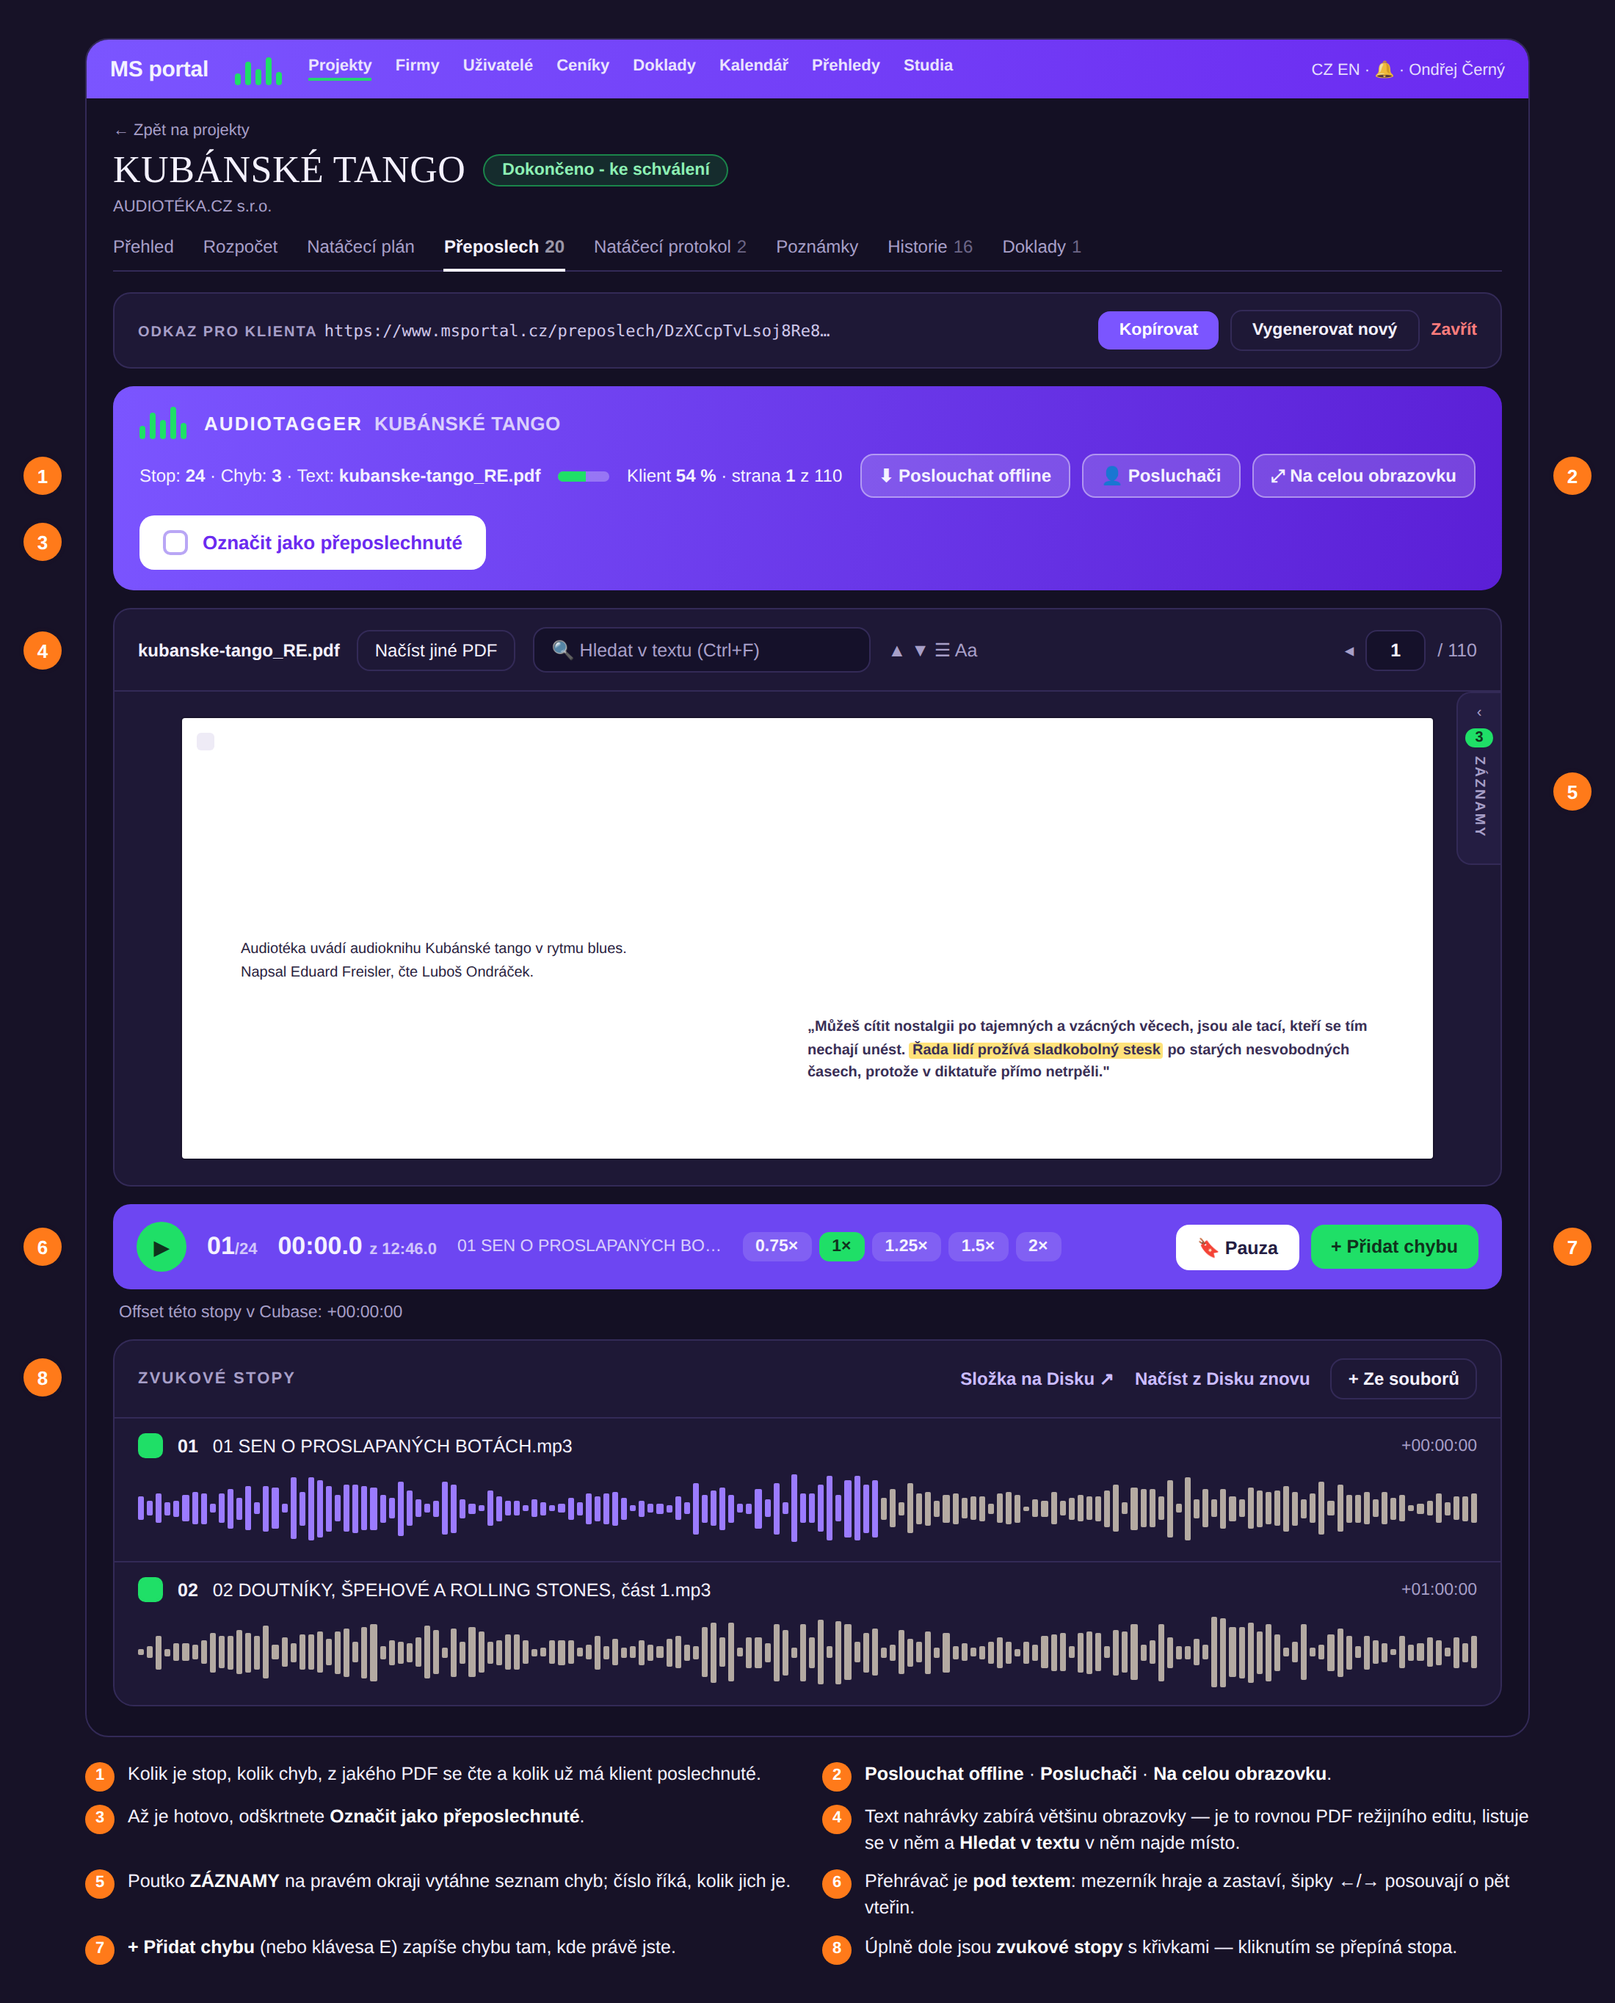
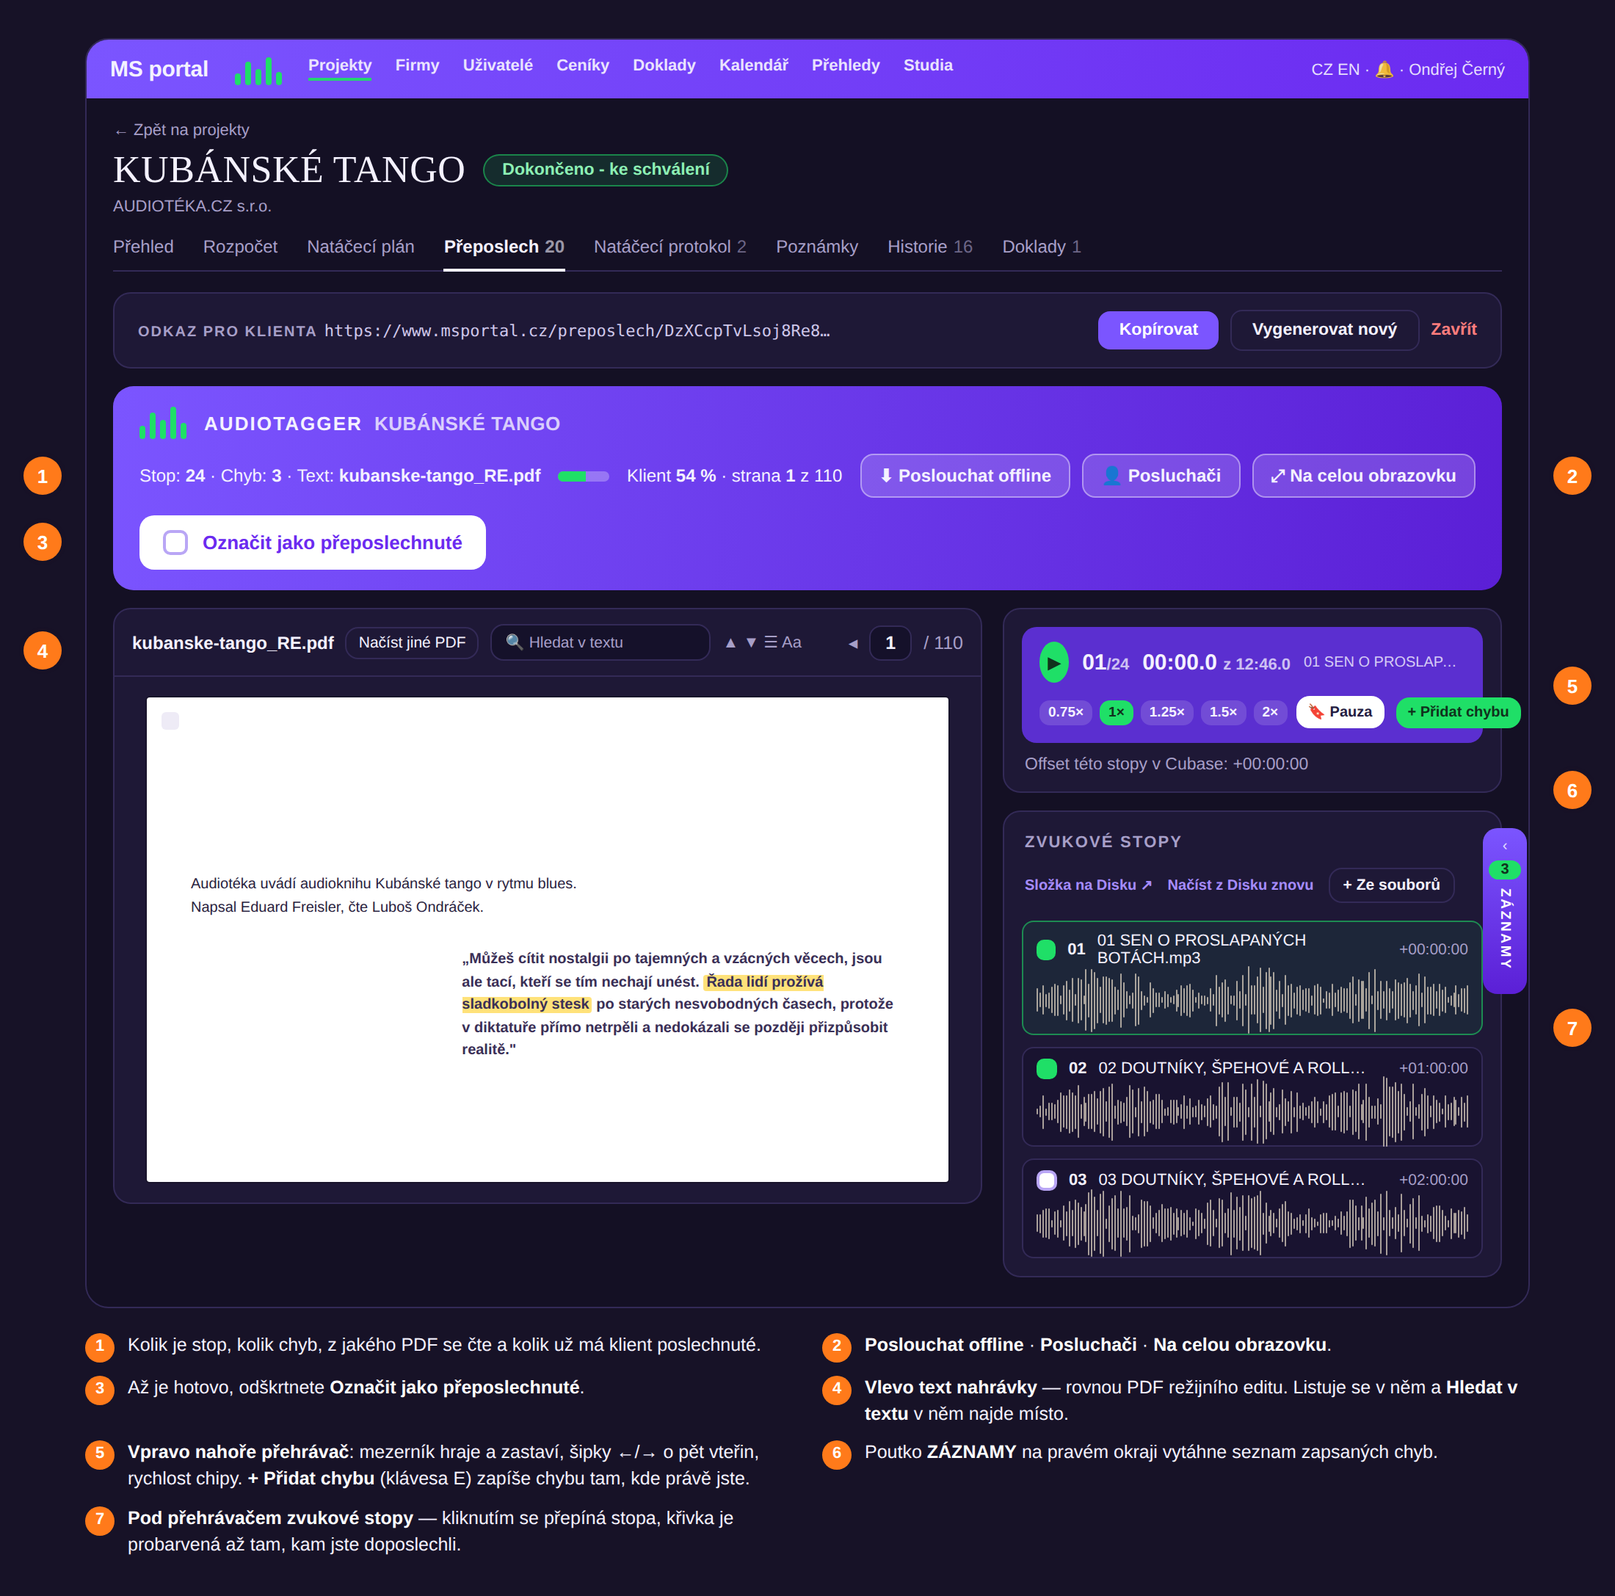
Obrazek preposlechu ma spravne dva sloupce
Zadani: "takhle ale ten audiotagger u audioknih nevypada".

Predchozi obrazek jsem kreslil podle okna, ktere bylo uzsi nez 1280 px (v Chromu byl otevreny bocni panel), takze se preposlech srovnal do jednoho sloupce. Na normalni sirce je mrizka dvousloupcova - viz Preposlech.tsx: grid-cols-1 xl:grid-cols-[minmax(0,1fr)_minmax(0,520px)].

Obrazek to ted ma spravne: VLEVO text (PDF rezijniho editu s listou a hledanim), VPRAVO nahore prehravac (displej, rychlosti, Pauza, + Pridat chybu, offset do Cubase) a pod nim karta ZVUKOVE STOPY s radky stop a krivkami; poutko ZAZNAMY na pravem okraji mrizky. Srovnany i popisky a uvodni veta obou navodu - i ta o "shora dolu" byla spatne.

Claude-Session: https://claude.ai/code/session_017ML6xEszibR659nh5zZn5o

diff --git a/scripts/navody/audiotagger.html b/scripts/navody/audiotagger.html
@@ -54,6 +54,30 @@ body{margin:0;background:var(--bg);font-family:"Helvetica Neue",Helvetica,Arial,
 .poutko2 span{display:block;background:var(--green);color:#10321d;font-weight:800;font-size:10px;border-radius:999px;padding:1px 0;margin:0 5px 6px}
 .poutko2 b{writing-mode:vertical-rl;font-size:9.5px;letter-spacing:.14em;color:var(--muted);font-weight:700}
 
+
+/* dva sloupce: vlevo text, vpravo prehravac a stopy (oprava 24. 9. 2026) */
+.mrizka{display:grid;grid-template-columns:minmax(0,1fr) 340px;gap:14px;align-items:start;margin-top:12px;position:relative}
+.sloupecP{display:flex;flex-direction:column;gap:12px}
+.prehravacKarta{background:var(--panel);border:1px solid var(--line);border-radius:12px;padding:12px}
+.displej{background:#5B2FD0;border-radius:10px;padding:10px 12px}
+.displej .radaA{display:flex;align-items:center;gap:9px;white-space:nowrap}
+.displej .radaB{display:flex;align-items:center;gap:6px;margin-top:9px;padding-right:26px;white-space:nowrap}
+.displej .radaB .rychlosti span{font-size:9.5px;padding:3px 6px}
+.stopyKarta{background:var(--panel);border:1px solid var(--line);border-radius:12px;overflow:hidden}
+.stopyKarta .hlava{padding:11px 14px 0}
+.stopyKarta .hlava b{font-size:11px;letter-spacing:.1em;color:var(--muted)}
+.stopyKarta .akceR{display:flex;align-items:center;gap:10px;padding:9px 14px 12px;font-size:10px;font-weight:700;color:#a68cff;white-space:nowrap}
+.radekStopy{margin:0 12px 8px;border:1px solid var(--line);border-radius:8px;background:#191330;padding:7px 9px}
+.radekStopy.akt{border-color:rgba(31,223,103,.55);background:rgba(31,223,103,.07)}
+.radekStopy .h2{display:flex;align-items:center;gap:8px;font-size:11px}
+.radekStopy .h2 .off2{margin-left:auto;color:var(--muted);font-variant-numeric:tabular-nums;font-size:10.5px}
+.krivka2{height:32px;margin-top:6px;display:flex;align-items:center;gap:1px}
+.krivka2 i{flex:1;background:var(--vlna);opacity:.75;border-radius:1px}
+.poutko3{position:absolute;right:-17px;top:150px;background:linear-gradient(180deg,#7B55FF,#5B1FD6);border-radius:10px;width:30px;padding:7px 0 11px;text-align:center;z-index:5}
+.poutko3 em{display:block;font-style:normal;color:rgba(255,255,255,.8);font-size:10px;margin-bottom:4px}
+.poutko3 span{display:block;background:var(--green);color:#10321d;font-weight:800;font-size:10px;border-radius:999px;padding:1px 0;margin:0 4px 6px}
+.poutko3 b{writing-mode:vertical-rl;font-size:9.5px;letter-spacing:.14em;color:#fff;font-weight:700}
+
 /* hlavicka AudioTaggeru */
 .lista{background:linear-gradient(100deg,#7B55FF,#5B1FD6);border-radius:14px;padding:14px 18px}
 .lista .radek1{display:flex;align-items:center;gap:12px}
@@ -73,6 +97,10 @@ body{margin:0;background:var(--bg);font-family:"Helvetica Neue",Helvetica,Arial,
 
 /* PDF cast */
 .pdfl{display:flex;align-items:center;gap:12px;padding:12px 16px;border-bottom:1px solid var(--line);font-size:12.5px}
+.pdfkarta .pdfl{gap:8px;padding:10px 12px;font-size:11px;flex-wrap:nowrap;white-space:nowrap}
+.pdfkarta .pdfl .tlacitko{padding:4px 8px;font-size:10.5px}
+.pdfkarta .pdfl .hledani{padding:5px 9px;font-size:10.5px}
+.pdfkarta .pdfl .strana .pole{padding:4px 10px}
 .hledani{display:flex;align-items:center;gap:6px;background:#15112a;border:1px solid var(--line);border-radius:9px;padding:7px 12px;color:var(--muted);min-width:230px}
 .tlacitko{border:1px solid var(--line);border-radius:9px;padding:6px 11px;font-size:12px;color:var(--ink)}
 .strana{display:flex;align-items:center;gap:8px;margin-left:auto;color:var(--muted);font-size:12.5px}
@@ -193,52 +221,70 @@ body{margin:0;background:var(--bg);font-family:"Helvetica Neue",Helvetica,Arial,
         <div class="presl"><span class="ctverec"></span>Označit jako přeposlechnuté</div>
       </div>
 
-      <div class="pdfkarta">
-        <div class="pdfl">
-          <b style="font-size:12px">kubanske-tango_RE.pdf</b>
-          <span class="tlacitko">Načíst jiné PDF</span>
-          <span class="hledani">🔍 Hledat v textu (Ctrl+F)</span>
-          <span class="muted">▲ ▼ ☰ Aa</span>
-          <span class="strana">◂ <span class="pole">1</span> / 110</span>
-        </div>
-        <div class="papirvelky">
-          <span class="rohcislo"></span>
-          <div class="sloupec">
-            Audiotéka uvádí audioknihu Kubánské tango v rytmu blues.<br>
-            Napsal Eduard Freisler, čte Luboš Ondráček.
-            <div class="vpravo3" style="margin-top:22px">
-              „Můžeš cítit nostalgii po tajemných a vzácných věcech, jsou ale tací, kteří se tím nechají unést.
-              <span style="background:#ffe27a;border-radius:2px;padding:0 2px">Řada lidí prožívá sladkobolný stesk</span>
-              po starých nesvobodných časech, protože v diktatuře přímo netrpěli."
+      <div class="mrizka">
+        <!-- VLEVO: text nahravky -->
+        <div class="pdfkarta" style="margin-top:0">
+          <div class="pdfl">
+            <b style="font-size:12px">kubanske-tango_RE.pdf</b>
+            <span class="tlacitko">Načíst jiné PDF</span>
+            <span class="hledani" style="min-width:150px">🔍 Hledat v textu</span>
+            <span class="muted">▲ ▼ ☰ Aa</span>
+            <span class="strana">◂ <span class="pole">1</span> / 110</span>
+          </div>
+          <div class="papirvelky" style="margin:14px 22px;height:330px;padding:26px 30px">
+            <span class="rohcislo"></span>
+            <div class="sloupec" style="top:120px;left:30px;right:30px">
+              Audiotéka uvádí audioknihu Kubánské tango v rytmu blues.<br>
+              Napsal Eduard Freisler, čte Luboš Ondráček.
+              <div class="vpravo3" style="margin-top:20px;margin-left:38%">
+                „Můžeš cítit nostalgii po tajemných a vzácných věcech, jsou ale tací, kteří se tím nechají unést.
+                <span style="background:#ffe27a;border-radius:2px;padding:0 2px">Řada lidí prožívá sladkobolný stesk</span>
+                po starých nesvobodných časech, protože v diktatuře přímo netrpěli a nedokázali se později přizpůsobit realitě."
+              </div>
             </div>
           </div>
         </div>
-        <div class="poutko2"><em>‹</em><span>3</span><b>ZÁZNAMY</b></div>
-      </div>
 
-      <div class="prehravac" style="margin-top:12px">
-        <span class="play">▶</span>
-        <span class="stopa">01<small>/24</small></span>
-        <span class="cas">00:00.0 <small>z 12:46.0</small></span>
-        <span class="nazevstopy">01 SEN O PROSLAPANÝCH BO…</span>
-        <span class="rychlosti"><span>0.75×</span><span class="on">1×</span><span>1.25×</span><span>1.5×</span><span>2×</span></span>
-        <span class="vpravo"><span class="btnb">🔖 Pauza</span><span class="btng">+ Přidat chybu</span></span>
-      </div>
-      <p class="offset">Offset této stopy v Cubase: +00:00:00</p>
+        <!-- VPRAVO: prehravac a zvukove stopy -->
+        <div class="sloupecP">
+          <div class="prehravacKarta">
+            <div class="displej">
+              <div class="radaA">
+                <span class="play" style="width:28px;height:28px;font-size:11px">▶</span>
+                <span class="stopa" style="font-size:15px">01<small>/24</small></span>
+                <span class="cas" style="font-size:15px">00:00.0 <small>z 12:46.0</small></span>
+                <span class="nazevstopy" style="max-width:110px;font-size:10px">01 SEN O PROSLAPANÝCH BO…</span>
+              </div>
+              <div class="radaB">
+                <span class="rychlosti"><span>0.75×</span><span class="on">1×</span><span>1.25×</span><span>1.5×</span><span>2×</span></span>
+                <span class="vpravo"><span class="btnb" style="padding:5px 8px;font-size:10px">🔖 Pauza</span><span class="btng" style="padding:5px 8px;font-size:10px">+ Přidat chybu</span></span>
+              </div>
+            </div>
+            <p class="offset" style="margin:9px 0 0 2px">Offset této stopy v Cubase: +00:00:00</p>
+          </div>
 
-      <div class="karta" style="margin-top:12px">
-        <div class="hlavastop">
-          <b style="font-size:11px;letter-spacing:.1em;color:var(--muted)">ZVUKOVÉ STOPY</b>
-          <span class="akce"><span>Složka na Disku ↗</span><span>Načíst z Disku znovu</span><span class="tlacitko" style="color:var(--ink)">+ Ze souborů</span></span>
+          <div class="stopyKarta">
+            <div class="hlava"><b>ZVUKOVÉ STOPY</b></div>
+            <div class="akceR">
+              <span>Složka na Disku ↗</span><span>Načíst z Disku znovu</span>
+              <span class="tlacitko" style="color:var(--ink);font-size:10.5px;padding:5px 9px">+ Ze souborů</span>
+            </div>
+            <div class="radekStopy akt">
+              <div class="h2"><span class="ctverec on" style="width:14px;height:14px"></span><b>01</b><span>01 SEN O PROSLAPANÝCH BOTÁCH.mp3</span><span class="off2">+00:00:00</span></div>
+              <div class="krivka2" data-vlna data-hrano="55"></div>
+            </div>
+            <div class="radekStopy">
+              <div class="h2"><span class="ctverec on" style="width:14px;height:14px"></span><b>02</b><span>02 DOUTNÍKY, ŠPEHOVÉ A ROLL…</span><span class="off2">+01:00:00</span></div>
+              <div class="krivka2" data-vlna></div>
+            </div>
+            <div class="radekStopy" style="margin-bottom:12px">
+              <div class="h2"><span class="ctverec" style="width:14px;height:14px"></span><b>03</b><span>03 DOUTNÍKY, ŠPEHOVÉ A ROLL…</span><span class="off2">+02:00:00</span></div>
+              <div class="krivka2" data-vlna></div>
+            </div>
+          </div>
         </div>
-        <div class="stopaR">
-          <div class="h"><span class="ctverec on"></span><b>01</b><span>01 SEN O PROSLAPANÝCH BOTÁCH.mp3</span><span class="off">+00:00:00</span></div>
-          <div class="krivka hraje" data-vlna data-hrano="55"></div>
-        </div>
-        <div class="stopaR" style="border-bottom:0">
-          <div class="h"><span class="ctverec on"></span><b>02</b><span>02 DOUTNÍKY, ŠPEHOVÉ A ROLLING STONES, část 1.mp3</span><span class="off">+01:00:00</span></div>
-          <div class="krivka" data-vlna></div>
-        </div>
+
+        <div class="poutko3"><em>‹</em><span>3</span><b>ZÁZNAMY</b></div>
       </div>
     </div>
   </div>
@@ -247,20 +293,18 @@ body{margin:0;background:var(--bg);font-family:"Helvetica Neue",Helvetica,Arial,
   <div class="bublina" style="left:1058px;top:311px">2</div>
   <div class="bublina" style="left:16px;top:356px">3</div>
   <div class="bublina" style="left:16px;top:430px">4</div>
-  <div class="bublina" style="left:1058px;top:526px">5</div>
-  <div class="bublina" style="left:16px;top:836px">6</div>
-  <div class="bublina" style="left:1058px;top:836px">7</div>
-  <div class="bublina" style="left:16px;top:925px">8</div>
+  <div class="bublina" style="left:1058px;top:454px">5</div>
+  <div class="bublina" style="left:1058px;top:525px">6</div>
+  <div class="bublina" style="left:1058px;top:687px">7</div>
 
   <div class="popisky">
     <div><em>1</em><span>Kolik je stop, kolik chyb, z jakého PDF se čte a kolik už má klient poslechnuté.</span></div>
     <div><em>2</em><span><b>Poslouchat offline</b> · <b>Posluchači</b> · <b>Na celou obrazovku</b>.</span></div>
     <div><em>3</em><span>Až je hotovo, odškrtnete <b>Označit jako přeposlechnuté</b>.</span></div>
-    <div><em>4</em><span>Text nahrávky zabírá většinu obrazovky — je to rovnou PDF režijního editu, listuje se v něm a <b>Hledat v textu</b> v něm najde místo.</span></div>
-    <div><em>5</em><span>Poutko <b>ZÁZNAMY</b> na pravém okraji vytáhne seznam chyb; číslo říká, kolik jich je.</span></div>
-    <div><em>6</em><span>Přehrávač je <b>pod textem</b>: mezerník hraje a zastaví, šipky ←/→ posouvají o pět vteřin.</span></div>
-    <div><em>7</em><span><b>+ Přidat chybu</b> (nebo klávesa E) zapíše chybu tam, kde právě jste.</span></div>
-    <div><em>8</em><span>Úplně dole jsou <b>zvukové stopy</b> s křivkami — kliknutím se přepíná stopa.</span></div>
+    <div><em>4</em><span><b>Vlevo text nahrávky</b> — rovnou PDF režijního editu. Listuje se v něm a <b>Hledat v textu</b> v něm najde místo.</span></div>
+    <div><em>5</em><span><b>Vpravo nahoře přehrávač</b>: mezerník hraje a zastaví, šipky ←/→ o pět vteřin, rychlost chipy. <b>+ Přidat chybu</b> (klávesa E) zapíše chybu tam, kde právě jste.</span></div>
+    <div><em>6</em><span>Poutko <b>ZÁZNAMY</b> na pravém okraji vytáhne seznam zapsaných chyb.</span></div>
+    <div><em>7</em><span><b>Pod přehrávačem zvukové stopy</b> — kliknutím se přepíná stopa, křivka je probarvená až tam, kam jste doposlechli.</span></div>
   </div>
 
 </div>

diff --git a/prisma/navodAudiotagger.ts b/prisma/navodAudiotagger.ts
@@ -24,9 +24,9 @@ export const AUDIOTAGGER = {
   kategorie: 'Projekty',
   poradi: 20,
   proDruhy: ['AUDIOBOOK'],
-  obsah: `AudioTagger je přeposlech přímo v portálu. Shora dolů: fialová hlavička s počty a tlačítky, pod ní **text nahrávky přes celou šířku** (rovnou PDF režijního editu), pod textem **přehrávač** a úplně dole **zvukové stopy** s křivkami. Záznamy chyb se vytahují poutkem na pravém okraji. Otevírá se **ze záložky v detailu projektu** a všechno, co se v něm zapíše, patří tomu projektu — ne prohlížeči, ve kterém to někdo psal.
+  obsah: `AudioTagger je přeposlech přímo v portálu: nahoře fialová hlavička s počty a tlačítky, pod ní **vlevo text nahrávky** (rovnou PDF režijního editu) a **vpravo přehrávač a pod ním zvukové stopy**. Záznamy chyb se vytahují poutkem na pravém okraji. Na užším okně se oba sloupce srovnají pod sebe. Otevírá se **ze záložky v detailu projektu** a všechno, co se v něm zapíše, patří tomu projektu — ne prohlížeči, ve kterém to někdo psal.
 
-![Celá obrazovka přeposlechu: hlavička projektu se záložkami, odkaz pro klienta, hlavička AudioTaggeru, text v PDF přes celou šířku, poutko Záznamy vpravo, pod textem přehrávač a dole zvukové stopy](/navody/audiotagger-1.png)
+![Celá obrazovka přeposlechu: hlavička projektu se záložkami, odkaz pro klienta, hlavička AudioTaggeru, vlevo text v PDF, vpravo přehrávač a zvukové stopy, na pravém okraji poutko Záznamy](/navody/audiotagger-1.png)
 
 # Než se dá poslouchat
 

diff --git a/prisma/navodProKlientyPreposlech.ts b/prisma/navodProKlientyPreposlech.ts
@@ -37,9 +37,9 @@ export const KLIENT_PREPOSLECH = {
 
 # Jak to vypadá
 
-![Celá obrazovka přeposlechu: hlavička s počty a tlačítky, text nahrávky v PDF přes celou šířku, poutko Záznamy vpravo, pod textem přehrávač a dole zvukové stopy](/navody/audiotagger-1.png)
+![Celá obrazovka přeposlechu: hlavička s počty a tlačítky, vlevo text nahrávky v PDF, vpravo přehrávač a zvukové stopy, na pravém okraji poutko Záznamy](/navody/audiotagger-1.png)
 
-Shora dolů: hlavička s počty a tlačítky, pod ní **text nahrávky** (PDF) přes celou šířku, pod textem **přehrávač** a úplně dole **zvukové stopy**. Na pravém okraji textu je poutko **Záznamy** — vytáhne seznam chyb, které už jsou zapsané.
+Nahoře je hlavička s počty a tlačítky. Pod ní **vlevo text nahrávky** (PDF) a **vpravo přehrávač**, pod kterým jsou **zvukové stopy**. Na pravém okraji je poutko **Záznamy** — vytáhne seznam chyb, které už jsou zapsané. Na užším okně se oba sloupce srovnají pod sebe.
 
 Ovládání z klávesnice:
 
